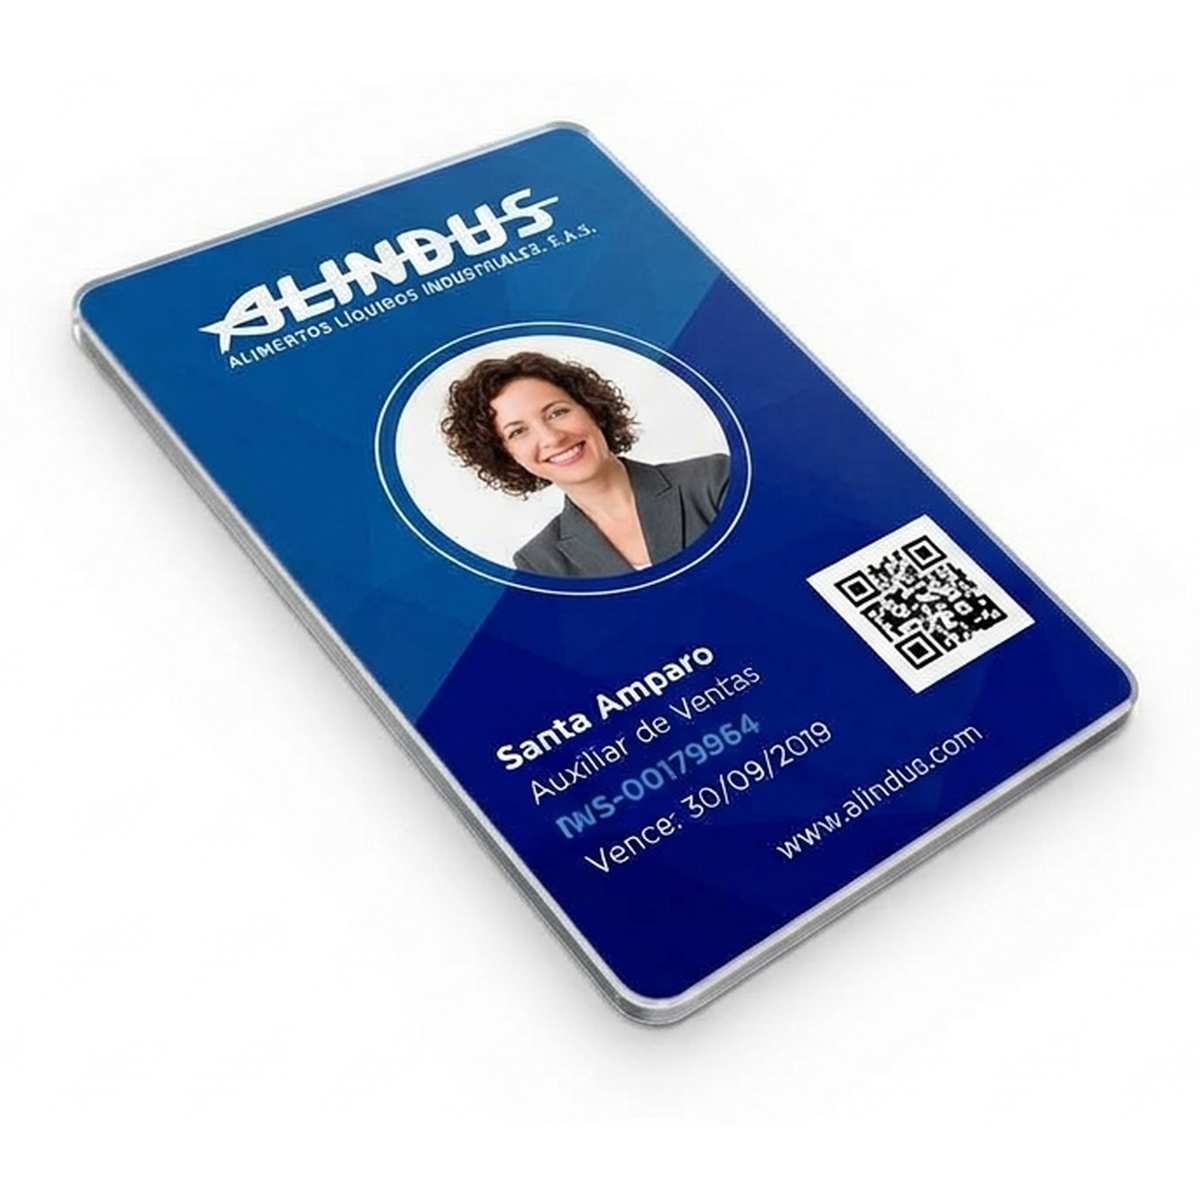
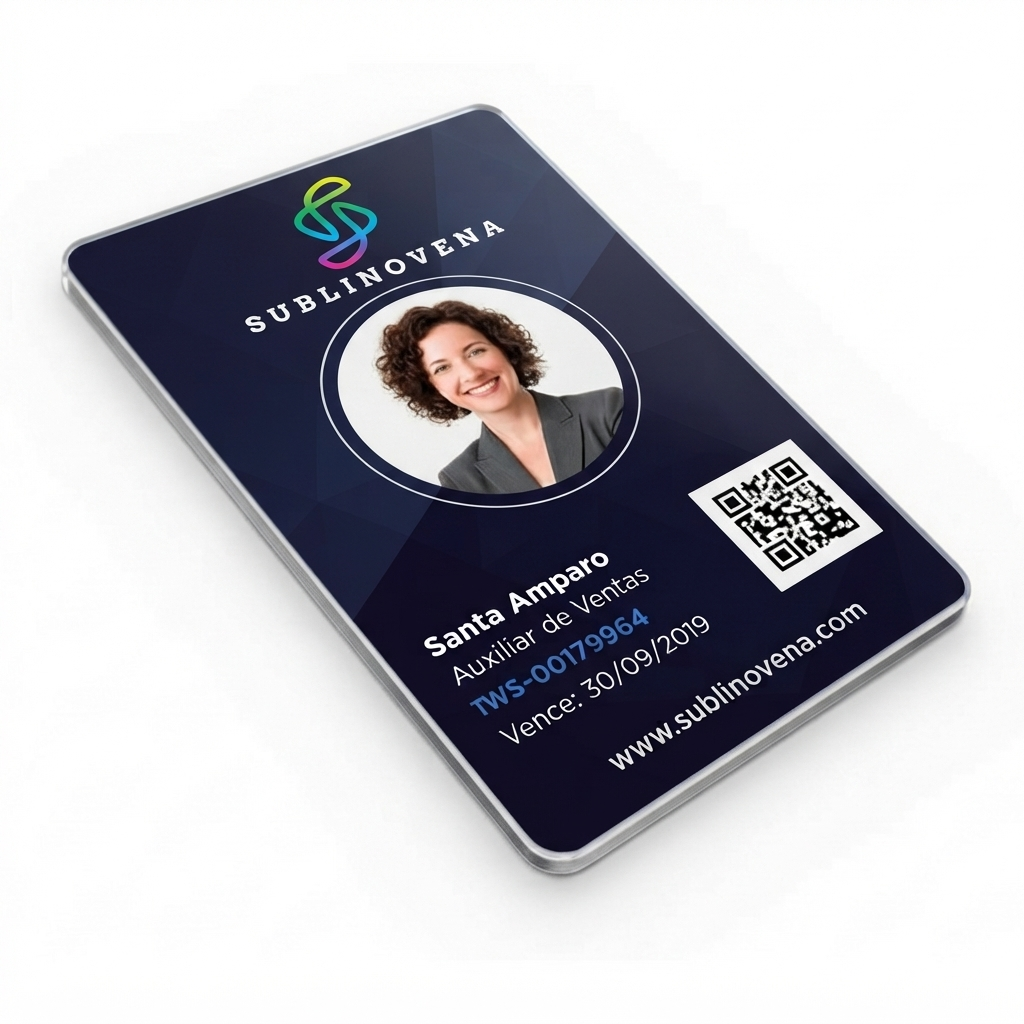
Actualiza fotos de productos, footer y preguntas frecuentes
Reemplaza las imágenes de credenciales, poleras piqué, chapitas,
pulsera, tarjetas de presentación, calendarios y carpetas por los
mockups con la marca actual. Agrega el sello "Somos proveedores del
Estado" con el logo de ChileCompra al footer, suma una foto nueva a
trabajos realizados y actualiza dos preguntas del FAQ.

Changed region(s): [[0.0625, 0.0938, 0.9688, 0.8438], [0.375, 0.3438, 0.4375, 0.4062]]

diff --git a/src/components/site/Footer.tsx b/src/components/site/Footer.tsx
@@ -1,5 +1,5 @@
 import { Instagram, Mail, MapPin } from "lucide-react";
-import logo from "@/assets/sublinovena-icon.png";
+import chileCompraLogo from "@/assets/chilecompra-logo.png";
 import { siteConfig, waLink } from "@/lib/site-config";
 import { WhatsappIcon } from "./WhatsappIcon";
 import { Reveal } from "./Reveal";
@@ -10,17 +10,16 @@ export function Footer() {
       <div className="rule-brand" />
       <div className="mx-auto grid max-w-7xl gap-12 px-5 py-16 lg:grid-cols-4 lg:px-8">
         <Reveal className="lg:col-span-2">
-          <img
-            src={logo}
-            alt="Sublinovena Merchandising"
-            width={72}
-            height={72}
-            loading="lazy"
-            className="size-16 rounded-full"
-          />
-          <p className="mt-5 max-w-sm text-sm leading-relaxed text-white/60">
+          <p className="font-brand text-xs font-bold uppercase tracking-[0.3em] text-cyan">
+            Somos proveedores del Estado
+          </p>
+          <div className="mt-4 inline-flex w-fit items-center rounded-xl bg-white px-6 py-5">
+            <img src={chileCompraLogo} alt="ChileCompra" loading="lazy" className="h-12 w-auto" />
+          </div>
+          <p className="mt-6 max-w-sm text-sm leading-relaxed text-white/60">
             Fabricamos merchandising corporativo personalizado para empresas en todo Chile: acabados
-            de calidad y acompañamiento real, desde el primer WhatsApp hasta la entrega.
+            de calidad y acompañamiento real, desde el primer contacto con nuestro equipo, hasta la
+            entrega.
           </p>
         </Reveal>
 

diff --git a/src/components/site/FAQ.tsx b/src/components/site/FAQ.tsx
@@ -19,18 +19,18 @@ export const faqs: FaqItem[] = [
     answer: "No, todos los precios publicados son + IVA.",
   },
   {
-    question: "¿El precio incluye el diseño y el estampado del logo?",
+    question: "¿El precio del producto incluye el estampado o impresión?",
     answer:
-      "En la mayoría de los productos sí, pero varía según el artículo. Algunos, como las credenciales, no lo incluyen. Te confirmamos el detalle exacto al cotizar tu producto por WhatsApp.",
+      "Sí, el precio considera el estampado o impresión, sin embargo se debe tener en consideración que el precio puede variar si el tipo o tamaño del estampado o impresión varía o excede lo estipulado. Es importante solicitar una cotización con el ejecutivo.",
+  },
+  {
+    question: "¿El precio considera el servicio de diseño?",
+    answer:
+      "En la gran mayoría de los productos no se considera el servicio de diseño. Es importante solicitar una cotización con el ejecutivo.",
   },
   {
     question: "¿Hacen despacho a todo Chile?",
     answer: "Sí. Fabricamos tu pedido y coordinamos la entrega en todo Chile.",
-  },
-  {
-    question: "¿Puedo pedir una muestra antes de producir todo el pedido?",
-    answer:
-      "En los productos que lo permiten, te mostramos primero un mockup con tu logo aplicado y, si lo necesitas, una muestra física antes de producir el pedido completo.",
   },
   {
     question: "¿Cuánto demora la producción?",

diff --git a/src/data/work-photos.ts b/src/data/work-photos.ts
@@ -43,7 +43,7 @@ const captions: Record<string, string> = {
   "botellas-espacio-amigable": "Botellas deportivas personalizadas",
   "bolsas-senda-previene-renaico-1": "Bolsas para campaña de prevención",
   "bolsas-senda-previene-renaico-2": "Bolsas para campaña de prevención",
-  "gorro-corporacion-kutral": "Chaleco corporativo reflectante",
+  "pines-trashumantes-teatro-sur": "Pines personalizados para compañía de teatro",
 };
 
 export type WorkPhoto = { slug: string; src: string; caption: string };

diff --git a/src/components/site/ProductCard.tsx b/src/components/site/ProductCard.tsx
@@ -71,7 +71,7 @@ export function ProductCard({ product: p, delay = 0 }: { product: Product; delay
                       ))}
                     </ul>
                   )}
-                  <p className="mt-2 text-[11px] text-muted-foreground">Valores + IVA.</p>
+                  <p className="mt-2 text-xs font-bold text-foreground">Valores + IVA.</p>
                 </AccordionContent>
               </AccordionItem>
             </Accordion>

diff --git a/src/routes/productos/$id.tsx b/src/routes/productos/$id.tsx
@@ -163,7 +163,7 @@ function ProductPage() {
                     ))}
                   </ul>
                 )}
-                <p className="mt-2 text-xs text-muted-foreground">Valores + IVA.</p>
+                <p className="mt-2 text-sm font-bold text-foreground">Valores + IVA.</p>
               </div>
             )}
           </div>
